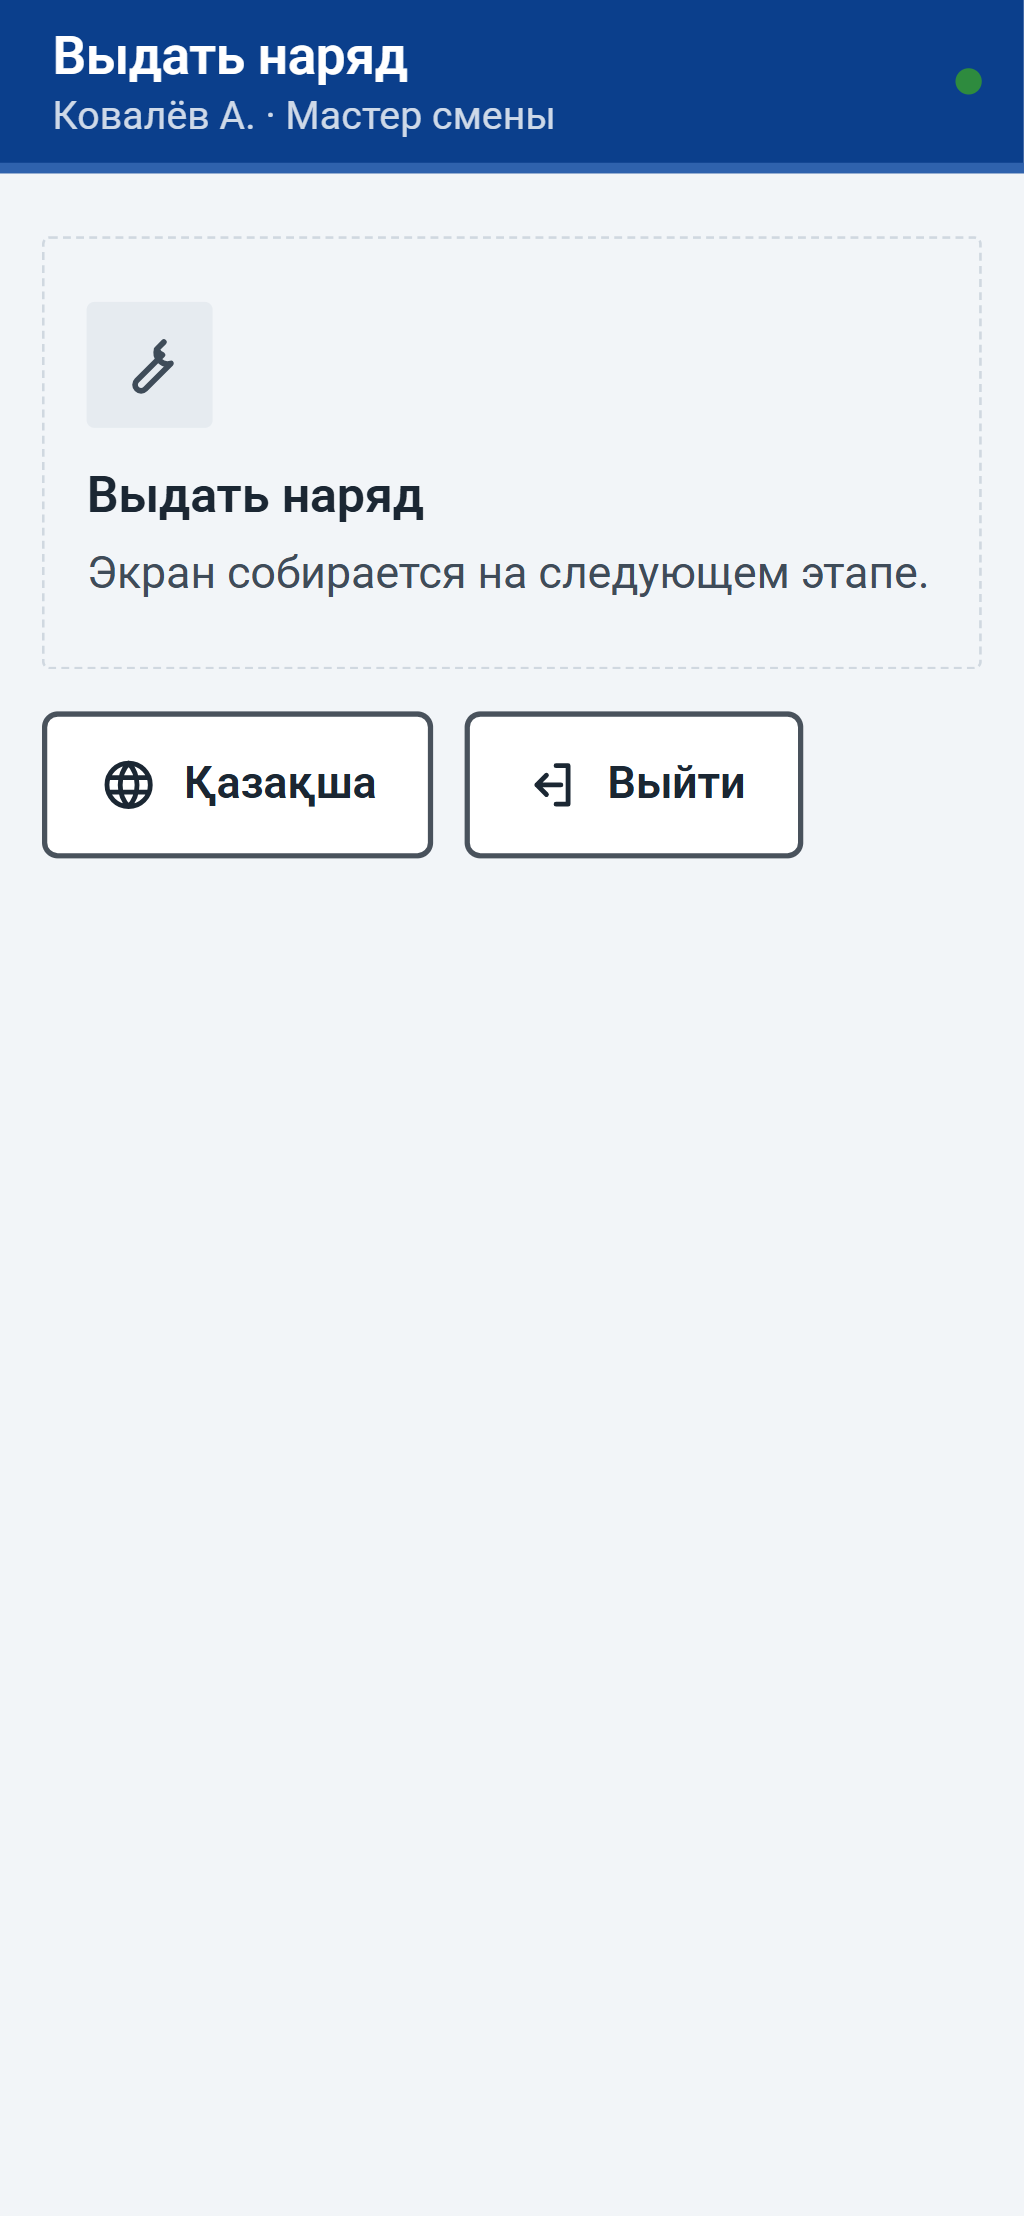
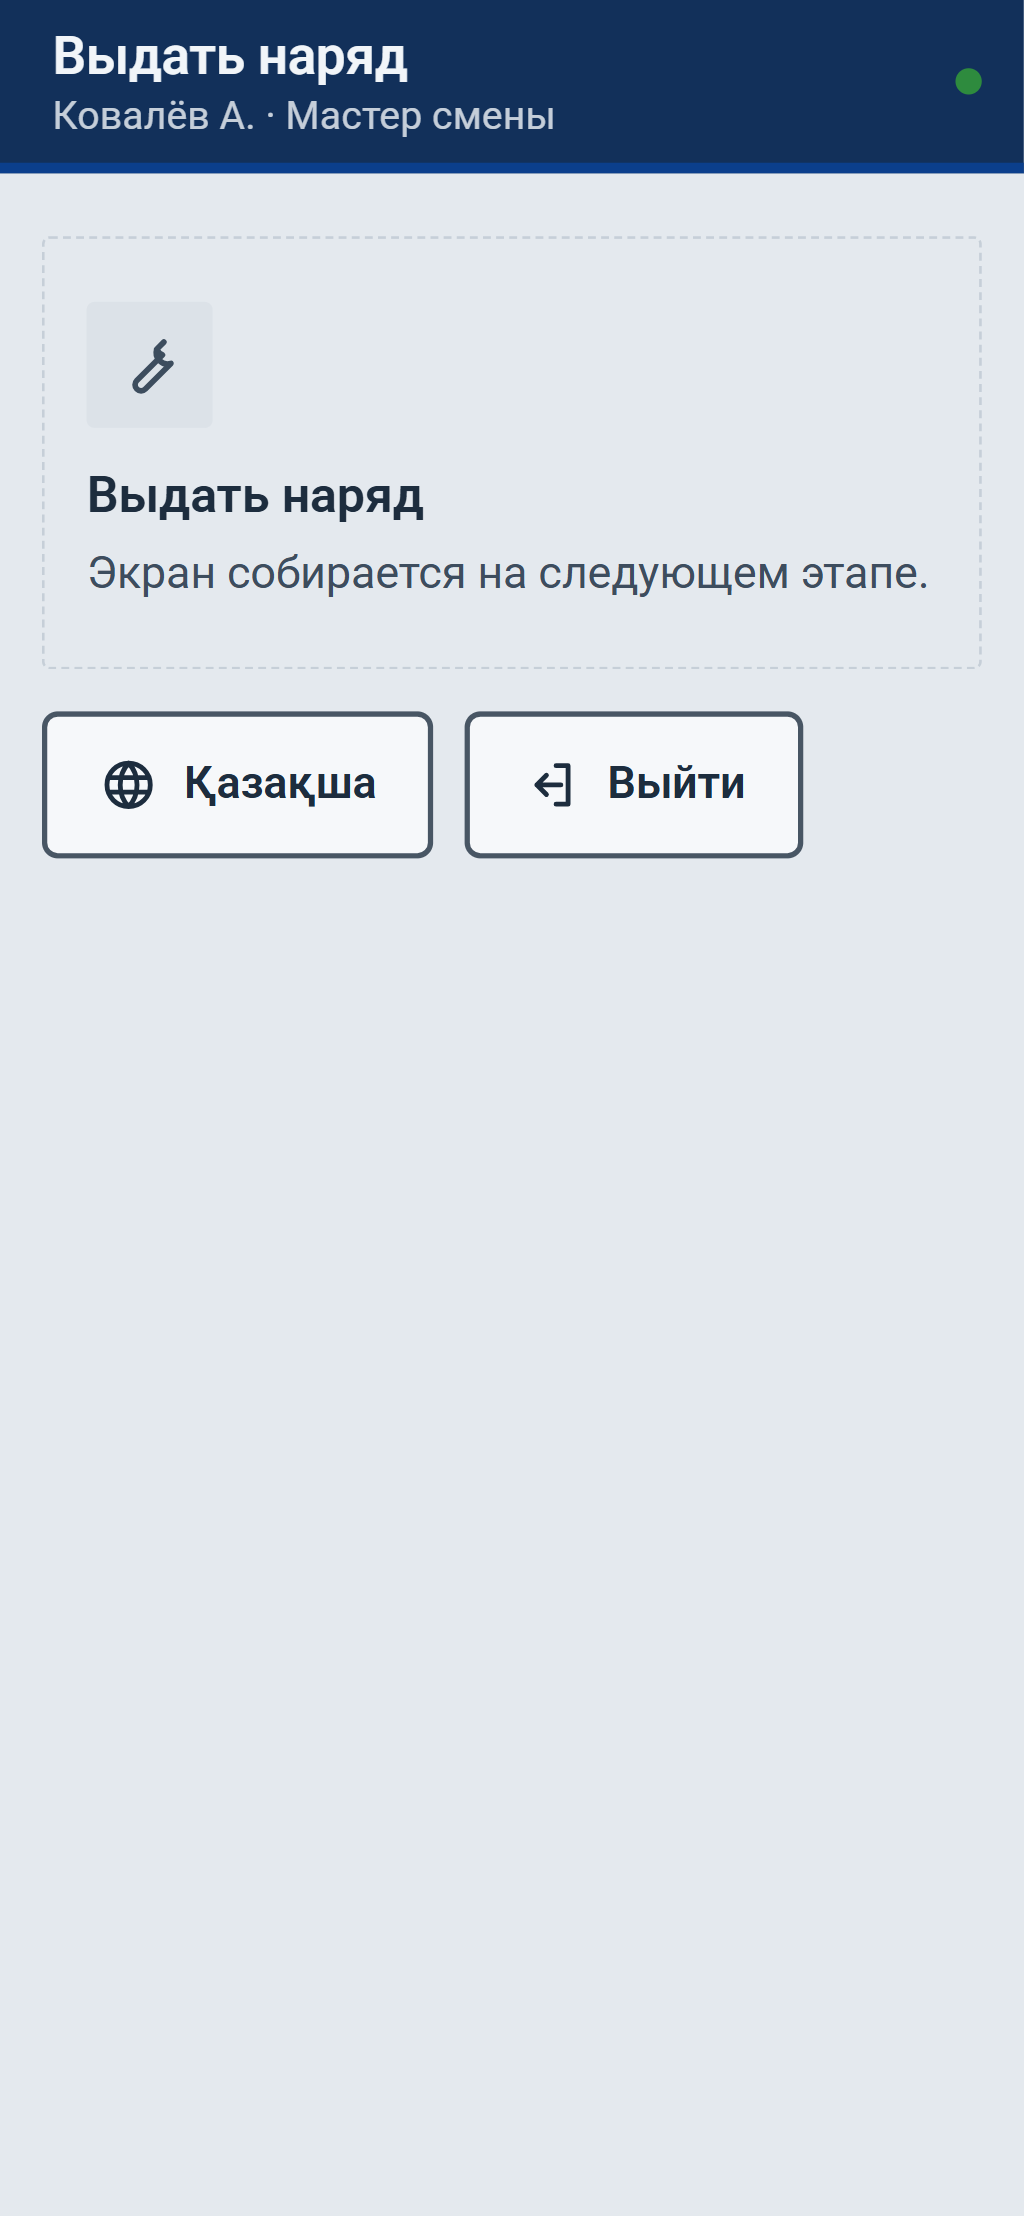
feat(ui): приглушённая корпоративная палитра и экран входа в стиле промышленных систем

Changed region(s): [[0.0, 0.0, 1.0, 0.0934]]

diff --git a/frontend/src/features/auth/LoginPage.tsx b/frontend/src/features/auth/LoginPage.tsx
@@ -9,6 +9,7 @@ import { homeFor, useSession } from '@/shared/lib/session'
 import { PinPad, TextField } from '@/shared/ui'
 
 const PIN_LENGTH = 4
+const VERSION = '1.0'
 
 export function LoginPage() {
   const { t, i18n } = useTranslation()
@@ -39,83 +40,92 @@ export function LoginPage() {
     if (value.length === PIN_LENGTH && loginName.trim()) mutation.mutate(value)
   }
 
+  const languageButton = (
+    <button
+      type="button"
+      onClick={() => setLanguage(i18n.language === 'kk' ? 'ru' : 'kk')}
+      className="min-h-11 rounded-control px-3 text-small font-medium text-ink-2 hover:bg-plate active:bg-plate"
+    >
+      {t('common.switchLanguage')}
+    </button>
+  )
+
   return (
-    <main className="flex min-h-dvh flex-col bg-surface text-ink md:flex-row">
-      <section className="relative flex flex-col bg-hero contours-blue dark:contours md:w-[44%] md:justify-center">
-        <div className="flex justify-end px-5 pt-[max(16px,env(safe-area-inset-top))] md:absolute md:top-8 md:right-8 md:p-0">
-          <button
-            type="button"
-            onClick={() => setLanguage(i18n.language === 'kk' ? 'ru' : 'kk')}
-            className="min-h-11 rounded-control border border-line bg-surface px-3 text-small font-medium text-ink-2 active:bg-plate"
-          >
-            {t('common.switchLanguage')}
-          </button>
-        </div>
-        <div className="flex flex-col items-center gap-4 px-6 pt-2 pb-10 text-center md:pb-0">
-          <img
-            src="/brand/km-logo.png"
-            alt="АО «Костанайские Минералы»"
-            className="h-24 w-auto dark:hidden md:h-36"
-          />
-          <img
-            src="/brand/km-logo-white.png"
-            alt=""
-            aria-hidden
-            className="hidden h-24 w-auto dark:block md:h-36"
-          />
-          <div>
-            <p className="text-[32px] leading-tight font-bold text-accent md:text-[40px]">
-              {t('app.name')}
-            </p>
-            <p className="mt-1 text-body text-ink-2">{t('app.slogan')}</p>
-          </div>
-        </div>
+    <main className="flex min-h-dvh flex-col bg-bg text-ink md:flex-row">
+      {/* Фирменная часть */}
+      <section className="flex flex-col items-center justify-center gap-5 bg-hero px-6 pt-[max(28px,env(safe-area-inset-top))] pb-8 text-center contours md:w-[42%] md:gap-8">
+        <img
+          src="/brand/km-logo-white.png"
+          alt="АО «Костанайские Минералы»"
+          className="h-20 w-auto md:h-32"
+        />
+        <p className="border-t border-white/20 pt-4 text-[28px] leading-none font-semibold tracking-tight text-white md:pt-6 md:text-[36px]">
+          {t('app.name')}
+        </p>
       </section>
 
-      <form
-        onSubmit={(e) => {
-          e.preventDefault()
-          if (pin.length === PIN_LENGTH) mutation.mutate(pin)
-        }}
-        className="flex flex-1 flex-col md:items-center md:justify-center"
-      >
-        <div className="mx-auto flex w-full max-w-sm flex-col gap-6 px-5 py-6">
-          <h1 className="text-h1 font-semibold">{t('login.title')}</h1>
-          <TextField
-            label={t('login.login')}
-            value={loginName}
-            onChange={(e) => setLoginName(e.target.value)}
-            autoComplete="username"
-            autoCapitalize="none"
-            autoCorrect="off"
-            spellCheck={false}
-            required
-          />
-          <div className="flex flex-col gap-3">
-            <p className="text-small font-semibold text-ink-2">
-              {t('login.pin')} · {t('login.pinHint')}
-            </p>
-            <PinPad
-              value={pin}
-              onChange={onPin}
-              length={PIN_LENGTH}
-              disabled={mutation.isPending || !loginName.trim()}
-              error={mutation.isError}
+      {/* Форма */}
+      <section className="flex flex-1 flex-col">
+        <div className="hidden justify-end px-6 pt-5 md:flex">{languageButton}</div>
+        <div className="flex flex-1 items-start justify-center px-4 py-5 md:items-center md:py-8">
+          <form
+            onSubmit={(e) => {
+              e.preventDefault()
+              if (pin.length === PIN_LENGTH) mutation.mutate(pin)
+            }}
+            className="flex w-full max-w-[400px] flex-col gap-6 rounded-[10px] border border-line bg-surface px-5 py-6 shadow-[0_1px_2px_rgb(29_45_62/0.06),0_8px_24px_rgb(29_45_62/0.08)] md:px-8 md:py-8"
+          >
+            <div className="flex items-start justify-between gap-3">
+              <div>
+                <h1 className="text-h1 font-semibold">{t('login.title')}</h1>
+                <p className="mt-1 text-small text-ink-3">{t('login.subtitle')}</p>
+              </div>
+              <div className="md:hidden">{languageButton}</div>
+            </div>
+            <TextField
+              label={t('login.login')}
+              value={loginName}
+              onChange={(e) => setLoginName(e.target.value)}
+              autoComplete="username"
+              autoCapitalize="none"
+              autoCorrect="off"
+              spellCheck={false}
+              required
             />
-          </div>
-          <div aria-live="assertive" className="min-h-14">
-            {mutation.isPending && <p className="text-center text-ink-2">{t('login.checking')}</p>}
-            {mutation.error && (
-              <p className="rounded-tag border-l-4 border-red bg-red-soft px-4 py-3 text-body" role="alert">
-                {mutation.error.message}
+            <div className="flex flex-col gap-3">
+              <p className="text-small font-semibold text-ink-2">
+                {t('login.pin')} · {t('login.pinHint')}
               </p>
-            )}
-            {!loginName.trim() && !mutation.error && (
-              <p className="text-center text-small text-ink-3">{t('login.enterLoginFirst')}</p>
-            )}
-          </div>
+              <PinPad
+                value={pin}
+                onChange={onPin}
+                length={PIN_LENGTH}
+                disabled={mutation.isPending || !loginName.trim()}
+                error={mutation.isError}
+              />
+            </div>
+            <div aria-live="assertive" className="min-h-12">
+              {mutation.isPending && (
+                <p className="text-center text-ink-2">{t('login.checking')}</p>
+              )}
+              {mutation.error && (
+                <p
+                  className="rounded-tag border-l-4 border-red bg-red-soft px-4 py-3 text-body"
+                  role="alert"
+                >
+                  {mutation.error.message}
+                </p>
+              )}
+              {!loginName.trim() && !mutation.error && (
+                <p className="text-center text-small text-ink-3">{t('login.enterLoginFirst')}</p>
+              )}
+            </div>
+          </form>
         </div>
-      </form>
+        <footer className="px-6 pb-[max(16px,env(safe-area-inset-bottom))] text-center text-stamp text-ink-3">
+          © {new Date().getFullYear()} {t('login.company')} · {t('app.name')} {VERSION}
+        </footer>
+      </section>
     </main>
   )
 }

diff --git a/frontend/src/index.css b/frontend/src/index.css
@@ -5,14 +5,16 @@
 @custom-variant dark (&:where([data-theme='dark'], [data-theme='dark'] *));
 
 :root {
-  --bg: #f2f5f8;
-  --surface: #ffffff;
-  --plate: #e6ebf0;
-  --line: #d0d8e0;
-  --ink: #1b2733;
-  --ink-2: #3f4c59;
-  --ink-3: #5a6673;
-  --hero: #e7effa;
+  /* Приглушённая корпоративная палитра (ориентир — SAP Fiori Horizon, Siemens iX):
+     фон не белый, текст тёмно-синий, белее всего только карточки */
+  --bg: #e4e9ee;
+  --surface: #f6f8fa;
+  --plate: #dce2e8;
+  --line: #c6cfd8;
+  --ink: #1d2d3e;
+  --ink-2: #3d4d5e;
+  --ink-3: #56677a;
+  --hero: #10294a;
   --accent: #0b3f8c;
   --accent-press: #082f69;
   --on-accent: #ffffff;
@@ -33,10 +35,10 @@
   --red-strong: #c8231c;
   --green-strong: #257434;
   --queue-strong: #3567b3;
-  /* Шапка: днём — фирменный синий, ночью — сталь */
-  --bar: #0b3f8c;
-  --on-bar: #ffffff;
-  --bar-line: #2f62ad;
+  /* Шапка: глубокий фирменный синий */
+  --bar: #12305a;
+  --on-bar: #f1f5f9;
+  --bar-line: #0b3f8c;
   color-scheme: light;
 }
 
@@ -68,7 +70,7 @@
   --green-strong: #257434;
   --queue-strong: #3567b3;
   --bar: #0b1014;
-  --hero: #0e1a2a;
+  --hero: #0d1e33;
   --on-bar: #d7ddd9;
   --bar-line: #26323c;
   color-scheme: dark;

diff --git a/frontend/src/i18n/kk.ts b/frontend/src/i18n/kk.ts
@@ -19,6 +19,8 @@ export const kk: Translation = {
     submit: 'Кіру',
     checking: 'Тексеріп жатырмыз…',
     enterLoginFirst: 'Алдымен логинді енгізіңіз — тегіңізді латынша',
+    subtitle: 'Есептік жазбаны әкімші береді',
+    company: '«Қостанай Минералдары» АҚ',
   },
   common: {
     logout: 'Шығу',

diff --git a/frontend/src/i18n/ru.ts b/frontend/src/i18n/ru.ts
@@ -17,6 +17,8 @@ export const ru = {
     submit: 'Войти',
     checking: 'Проверяем…',
     enterLoginFirst: 'Сначала введите логин — фамилию латиницей',
+    subtitle: 'Учётная запись выдаётся администратором',
+    company: 'АО «Костанайские Минералы»',
   },
   common: {
     logout: 'Выйти',

diff --git a/docs/DECISIONS.md b/docs/DECISIONS.md
@@ -64,3 +64,4 @@
 - **Шрифт Roboto** вместо IBM Plex: привычный шрифт Android-телефонов рабочих, с кириллицей и казахскими буквами, вариативный по ширине.
 - **Логотип АО «Костанайские Минералы»** на экране входа — взят из материалов кейса.
 - **Шапка — фирменный синий**, фон экранов — светлый холодный (#F2F5F8), поверхности белые.
+- **Корпоративная приглушённая палитра** (ориентир — SAP Fiori Horizon и Siemens iX): фон #E4E9EE вместо белого, карточки #F6F8FA, текст тёмно-синий #1D2D3E, шапка глубокий синий #12305A. Вход — классическая корпоративная схема: слева фирменная часть с логотипом, справа форма-карточка, внизу копирайт и версия. Слоган с экрана убран.
